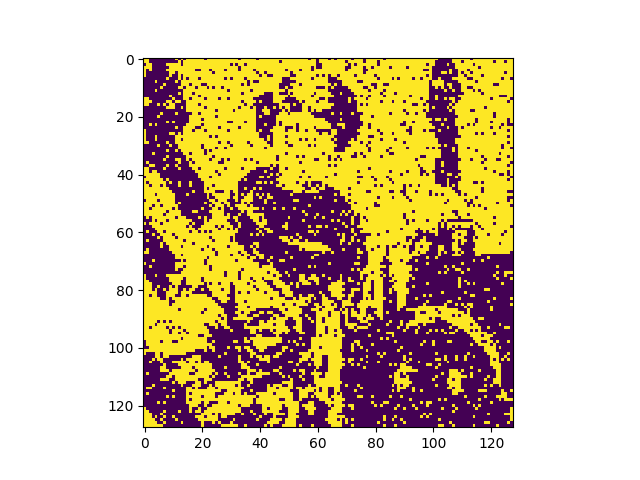
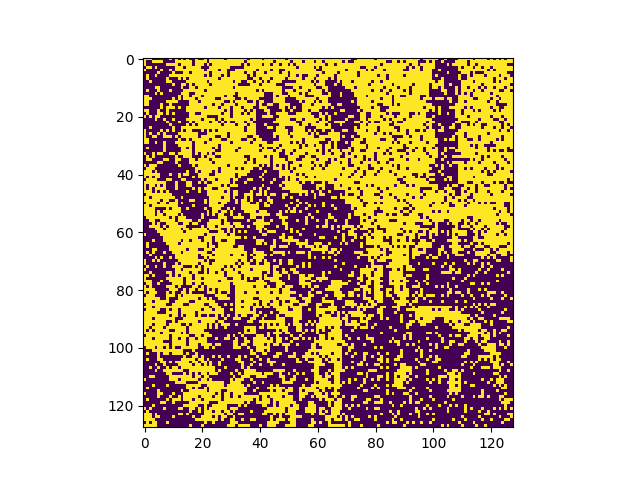
Change noise level to 40%

Changed region(s): [[0.2188, 0.125, 0.8125, 0.9062]]

diff --git a/test_fancy.py b/test_fancy.py
@@ -41,7 +41,7 @@ if __name__ == '__main__':
     for i in range(len(test_images)):
         img = test_images[i]
 
-        nreplace = round(0.2*len(img))
+        nreplace = round(0.4*len(img))
 
         k = np.random.choice(list(range(len(img))), nreplace, replace=False)
         
